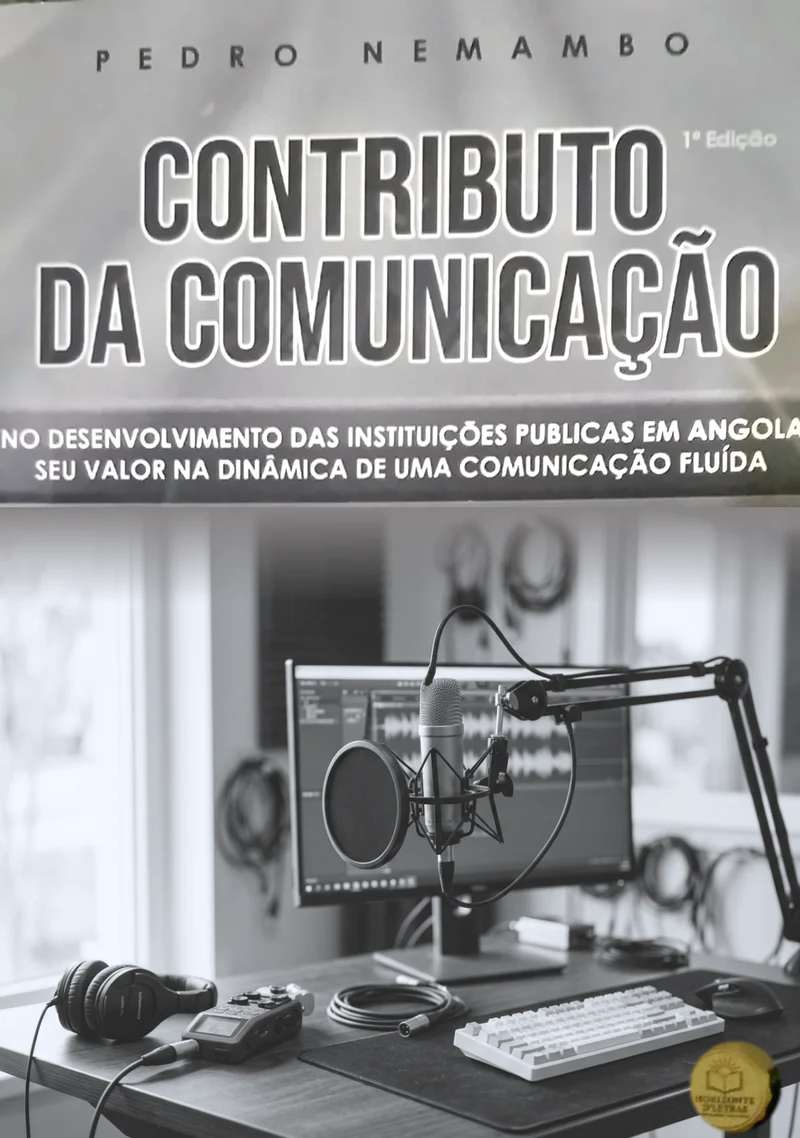
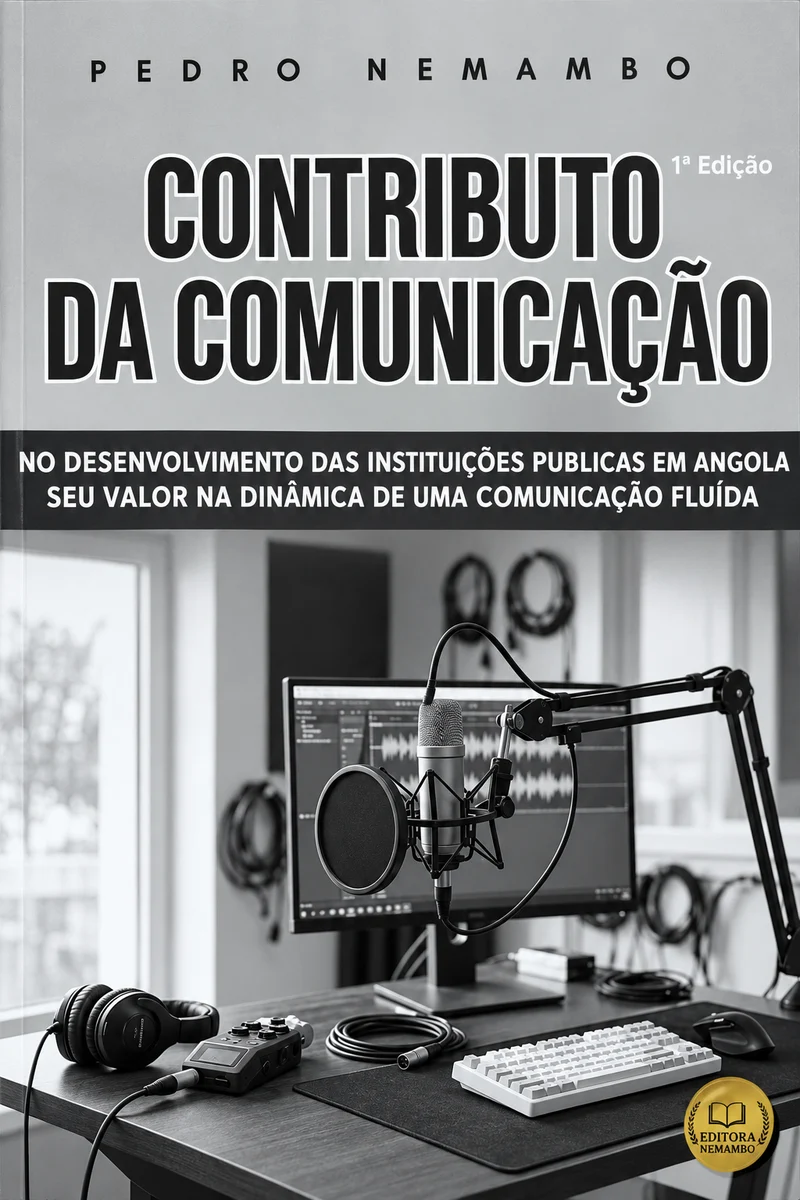
Novas imagens (capa e retrato), imagem de partilha, editora; retira link do feed do rodapé
Claude-Session: https://claude.ai/code/session_01XftsDHsx5FxPGT54fY2VHM

diff --git a/components/Livro3D.tsx b/components/Livro3D.tsx
@@ -4,7 +4,7 @@ import Image from "next/image";
 export default function Livro3D({ capa, titulo, priority = false, className = "" }: { capa: string; titulo: string; priority?: boolean; className?: string }) {
   return (
     <div className={`group relative mx-auto w-full max-w-[300px] [perspective:1600px] ${className}`}>
-      <div className="relative aspect-[1088/1548] transition-transform duration-700 ease-out [transform-style:preserve-3d] [transform:rotateY(-24deg)_rotateX(4deg)] group-hover:[transform:rotateY(-12deg)_rotateX(2deg)]">
+      <div className="relative aspect-[2/3] transition-transform duration-700 ease-out [transform-style:preserve-3d] [transform:rotateY(-24deg)_rotateX(4deg)] group-hover:[transform:rotateY(-12deg)_rotateX(2deg)]">
         {/* páginas (espessura) */}
         <div className="absolute right-0 top-[1.2%] h-[97.6%] w-[34px] origin-right bg-[repeating-linear-gradient(90deg,#f4f1ea_0_1px,#dcd6ca_1px_2px)] [transform:translateX(17px)_translateZ(-17px)_rotateY(90deg)]" aria-hidden />
         {/* contracapa */}

diff --git a/components/Rodape.tsx b/components/Rodape.tsx
@@ -24,7 +24,6 @@ export default function Rodape({ d }: { d: Definicoes }) {
           </nav>
           <div className="space-y-4">
             <Redes d={d} claro />
-            <a href="/feed.xml" className="block text-[14px] text-papel/55 hover:text-papel">Feed RSS</a>
           </div>
         </div>
       </div>
